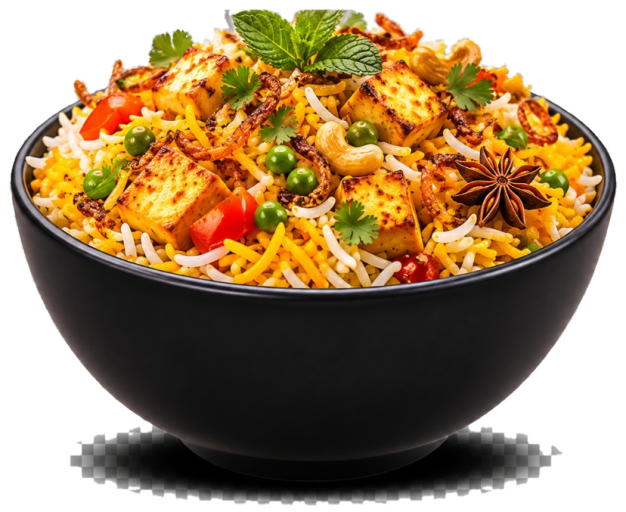
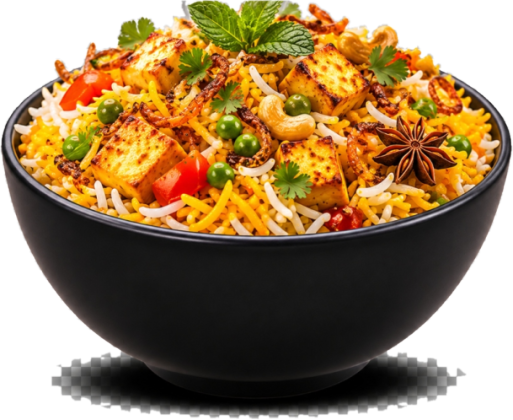
style(home): compact commercial bowl scale and implement realistic dual-layer 3D ground contact shadow

diff --git a/STYLE.CSS b/STYLE.CSS
@@ -1786,22 +1786,69 @@ button { border: 0; cursor: pointer; }
   transition: filter 0.4s cubic-bezier(0.16, 1, 0.3, 1), transform 0.4s cubic-bezier(0.16, 1, 0.3, 1);
 }
 
-/* Realistic 3D Elliptical Ground Shadow */
+/* Compact scale for wide commercial food bowl */
+.quick-3d-char-img.quick-3d-bowl-img {
+  height: 195px;
+  filter: drop-shadow(0 14px 22px rgba(15, 23, 42, 0.22)) drop-shadow(0 2px 6px rgba(15, 23, 42, 0.1));
+}
+
+/* Realistic Dual-Layer 3D Contact & Ground Shadow */
 .quick-3d-ground-shadow {
+  position: relative;
   width: 160px;
-  height: 20px;
-  margin-top: -12px;
+  height: 22px;
+  margin-top: -8px;
   border-radius: 50%;
-  background: radial-gradient(ellipse at center, rgba(15, 23, 42, 0.38) 0%, rgba(15, 23, 42, 0.14) 45%, transparent 75%);
-  filter: blur(4px);
+  background: radial-gradient(
+    ellipse 65% 50% at center,
+    rgba(15, 23, 42, 0.48) 0%,
+    rgba(15, 23, 42, 0.22) 40%,
+    rgba(15, 23, 42, 0.05) 68%,
+    transparent 82%
+  );
+  filter: blur(5px);
   animation: floatShadow 3.8s ease-in-out infinite;
-  transition: transform 0.4s cubic-bezier(0.16, 1, 0.3, 1), opacity 0.4s ease;
+  transition: transform 0.4s cubic-bezier(0.16, 1, 0.3, 1), opacity 0.4s ease, filter 0.4s ease;
   pointer-events: none;
+}
+
+/* Deep, realistic ambient contact occlusion core directly under base */
+.quick-3d-ground-shadow::after {
+  content: "";
+  position: absolute;
+  inset: 4px 18% 4px;
+  border-radius: 50%;
+  background: radial-gradient(
+    ellipse at center,
+    rgba(0, 0, 0, 0.8) 0%,
+    rgba(15, 23, 42, 0.45) 45%,
+    transparent 75%
+  );
+  filter: blur(2px);
+  transition: transform 0.4s cubic-bezier(0.16, 1, 0.3, 1), opacity 0.4s ease;
 }
 
 .quick-3d-ground-shadow.wide {
   width: 220px;
-  height: 22px;
+  height: 24px;
+}
+
+/* Specific contact shadow for the ceramic bowl base */
+.quick-3d-ground-shadow.bowl-shadow {
+  width: 180px;
+  height: 20px;
+  margin-top: -6px;
+}
+
+.quick-3d-ground-shadow.bowl-shadow::after {
+  inset: 3px 14% 3px;
+  background: radial-gradient(
+    ellipse at center,
+    rgba(0, 0, 0, 0.88) 0%,
+    rgba(15, 23, 42, 0.55) 45%,
+    transparent 72%
+  );
+  filter: blur(1.8px);
 }
 
 /* Stagger floating animations naturally across buttons */
@@ -1896,7 +1943,12 @@ button { border: 0; cursor: pointer; }
   animation-play-state: paused;
   transform: scale(0.82);
   opacity: 0.45;
-  filter: blur(5px);
+  filter: blur(7px);
+}
+
+.quick-service-3d-item:hover .quick-3d-ground-shadow::after {
+  opacity: 0.15;
+  transform: scale(0.55);
 }
 
 .quick-service-3d-item:hover .quick-3d-pill {
@@ -1946,7 +1998,23 @@ html[data-theme="dark"] .quick-services-header h2 {
 
 body.dark-theme .quick-3d-ground-shadow,
 html[data-theme="dark"] .quick-3d-ground-shadow {
-  background: radial-gradient(ellipse at center, rgba(0, 0, 0, 0.75) 0%, rgba(0, 0, 0, 0.3) 45%, transparent 75%);
+  background: radial-gradient(
+    ellipse 65% 50% at center,
+    rgba(0, 0, 0, 0.85) 0%,
+    rgba(0, 0, 0, 0.45) 40%,
+    rgba(0, 0, 0, 0.12) 68%,
+    transparent 82%
+  );
+}
+
+body.dark-theme .quick-3d-ground-shadow::after,
+html[data-theme="dark"] .quick-3d-ground-shadow::after {
+  background: radial-gradient(
+    ellipse at center,
+    rgba(0, 0, 0, 0.98) 0%,
+    rgba(0, 0, 0, 0.65) 45%,
+    transparent 75%
+  );
 }
 
 body.dark-theme .quick-3d-pill,
@@ -1981,6 +2049,9 @@ html[data-theme="dark"] .quick-service-3d-item:hover .quick-3d-pill {
   .quick-3d-char-img {
     height: 205px;
   }
+  .quick-3d-char-img.quick-3d-bowl-img {
+    height: 155px;
+  }
   .quick-3d-ground-shadow {
     width: 130px;
     height: 16px;
@@ -1989,6 +2060,11 @@ html[data-theme="dark"] .quick-service-3d-item:hover .quick-3d-pill {
   .quick-3d-ground-shadow.wide {
     width: 175px;
     height: 18px;
+  }
+  .quick-3d-ground-shadow.bowl-shadow {
+    width: 145px;
+    height: 16px;
+    margin-top: -5px;
   }
   .quick-3d-pill {
     min-width: 155px;

diff --git a/index.html b/index.html
@@ -335,9 +335,9 @@
         <a href="PHOTOGRAPHER-BOOKING.HTML?event=commercial" class="quick-service-3d-item" aria-label="Book Commercial Photography">
           <div class="quick-3d-stage">
             <div class="quick-3d-char-wrap">
-              <img src="commercial-photography.png" alt="Commercial Photography" class="quick-3d-char-img" loading="lazy">
+              <img src="commercial-photography.png" alt="Commercial Photography" class="quick-3d-char-img quick-3d-bowl-img" loading="lazy">
             </div>
-            <div class="quick-3d-ground-shadow wide"></div>
+            <div class="quick-3d-ground-shadow bowl-shadow"></div>
           </div>
           <div class="quick-3d-pill">
             <span class="quick-3d-tag">📦 PRODUCT &amp; FOOD</span>
